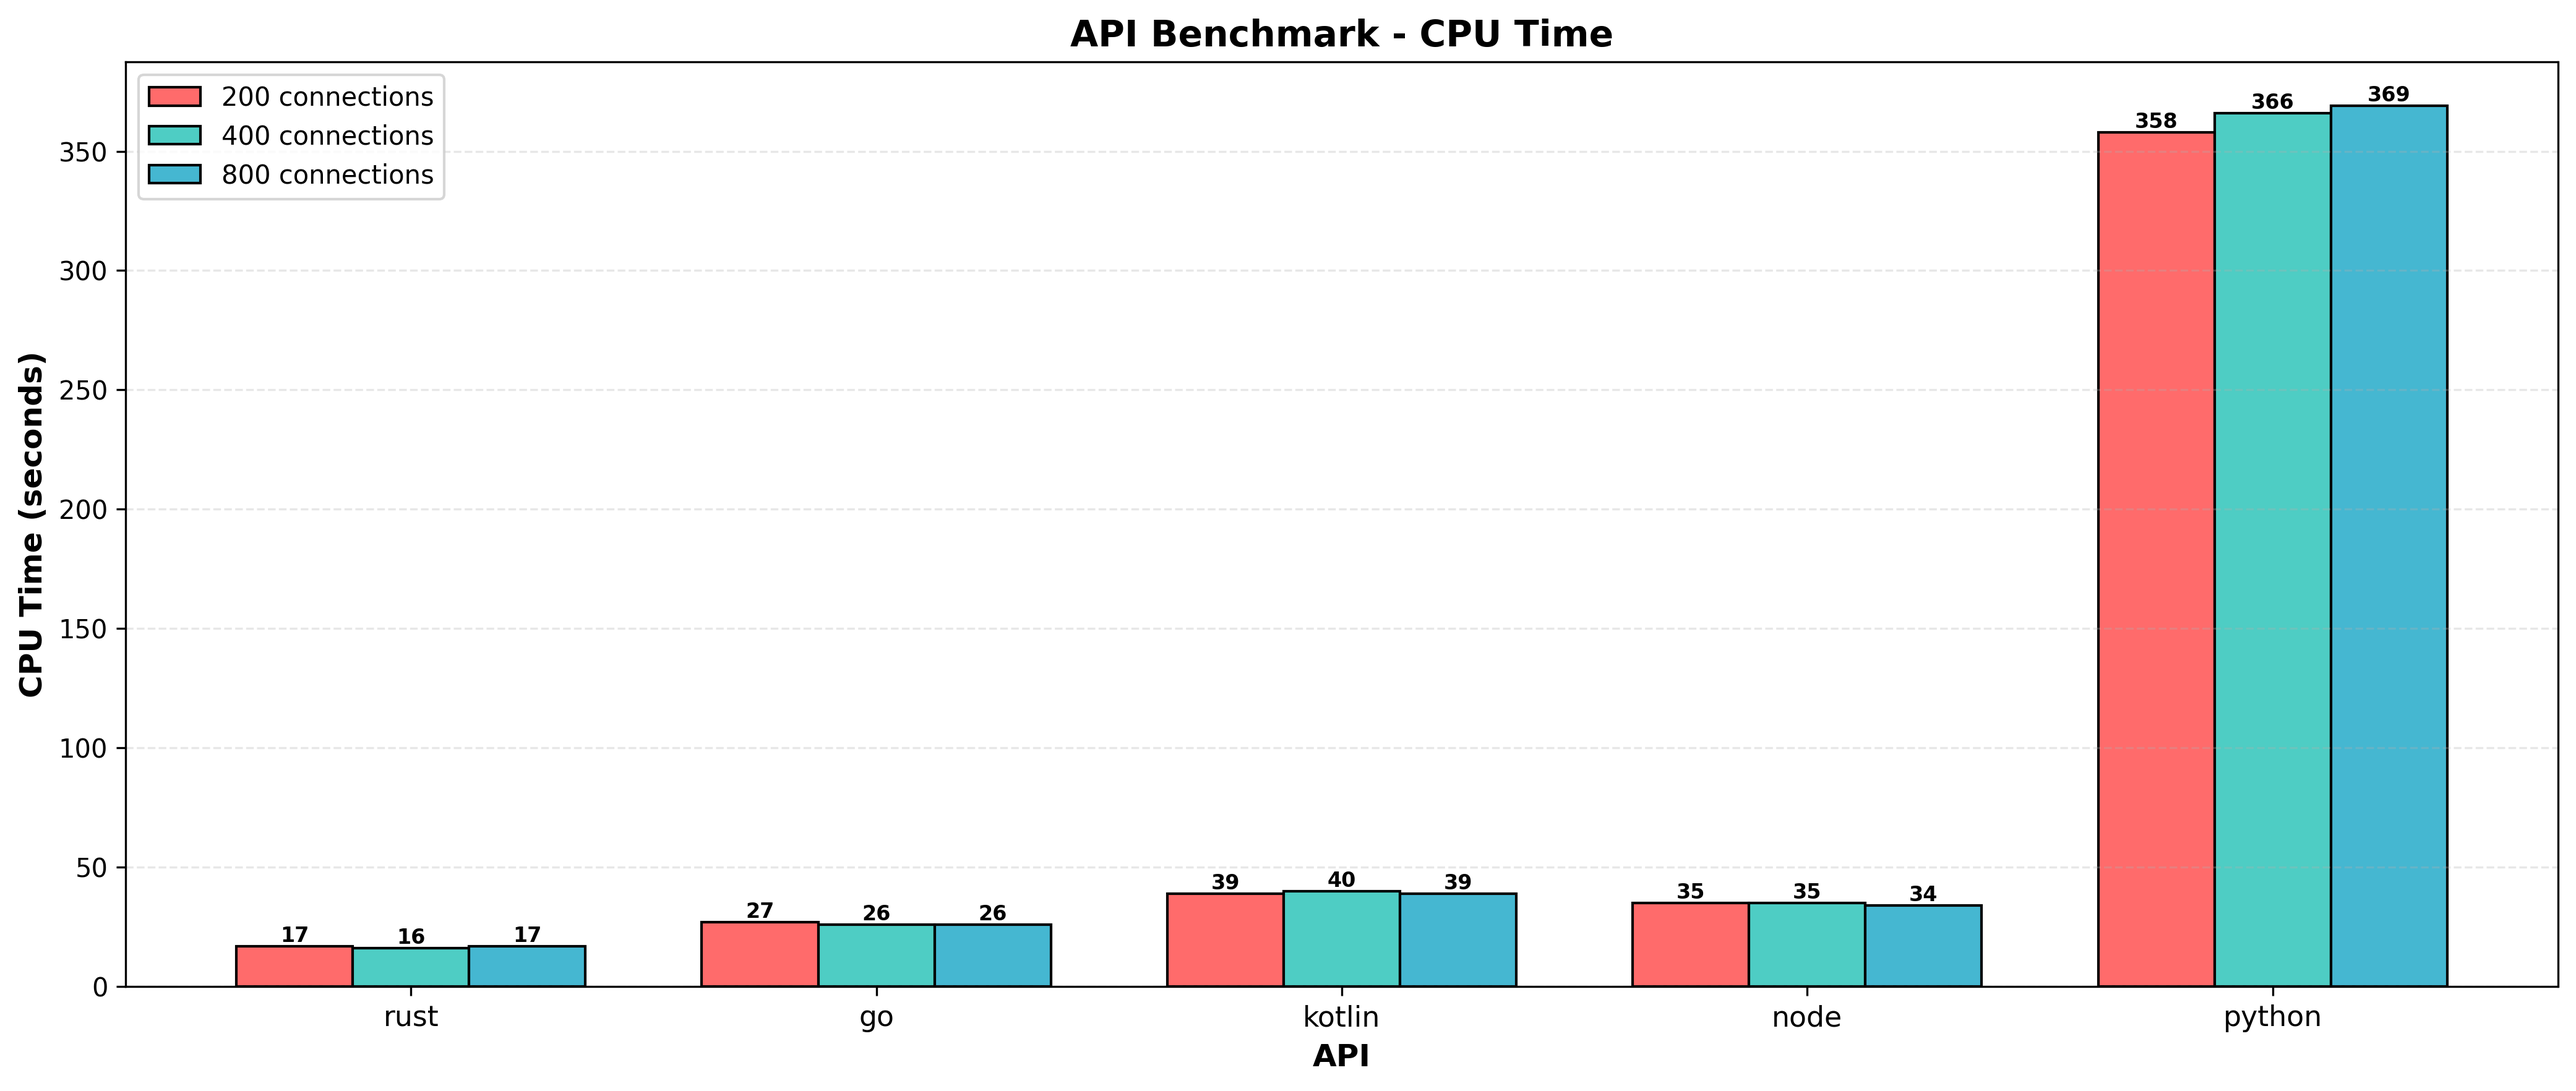
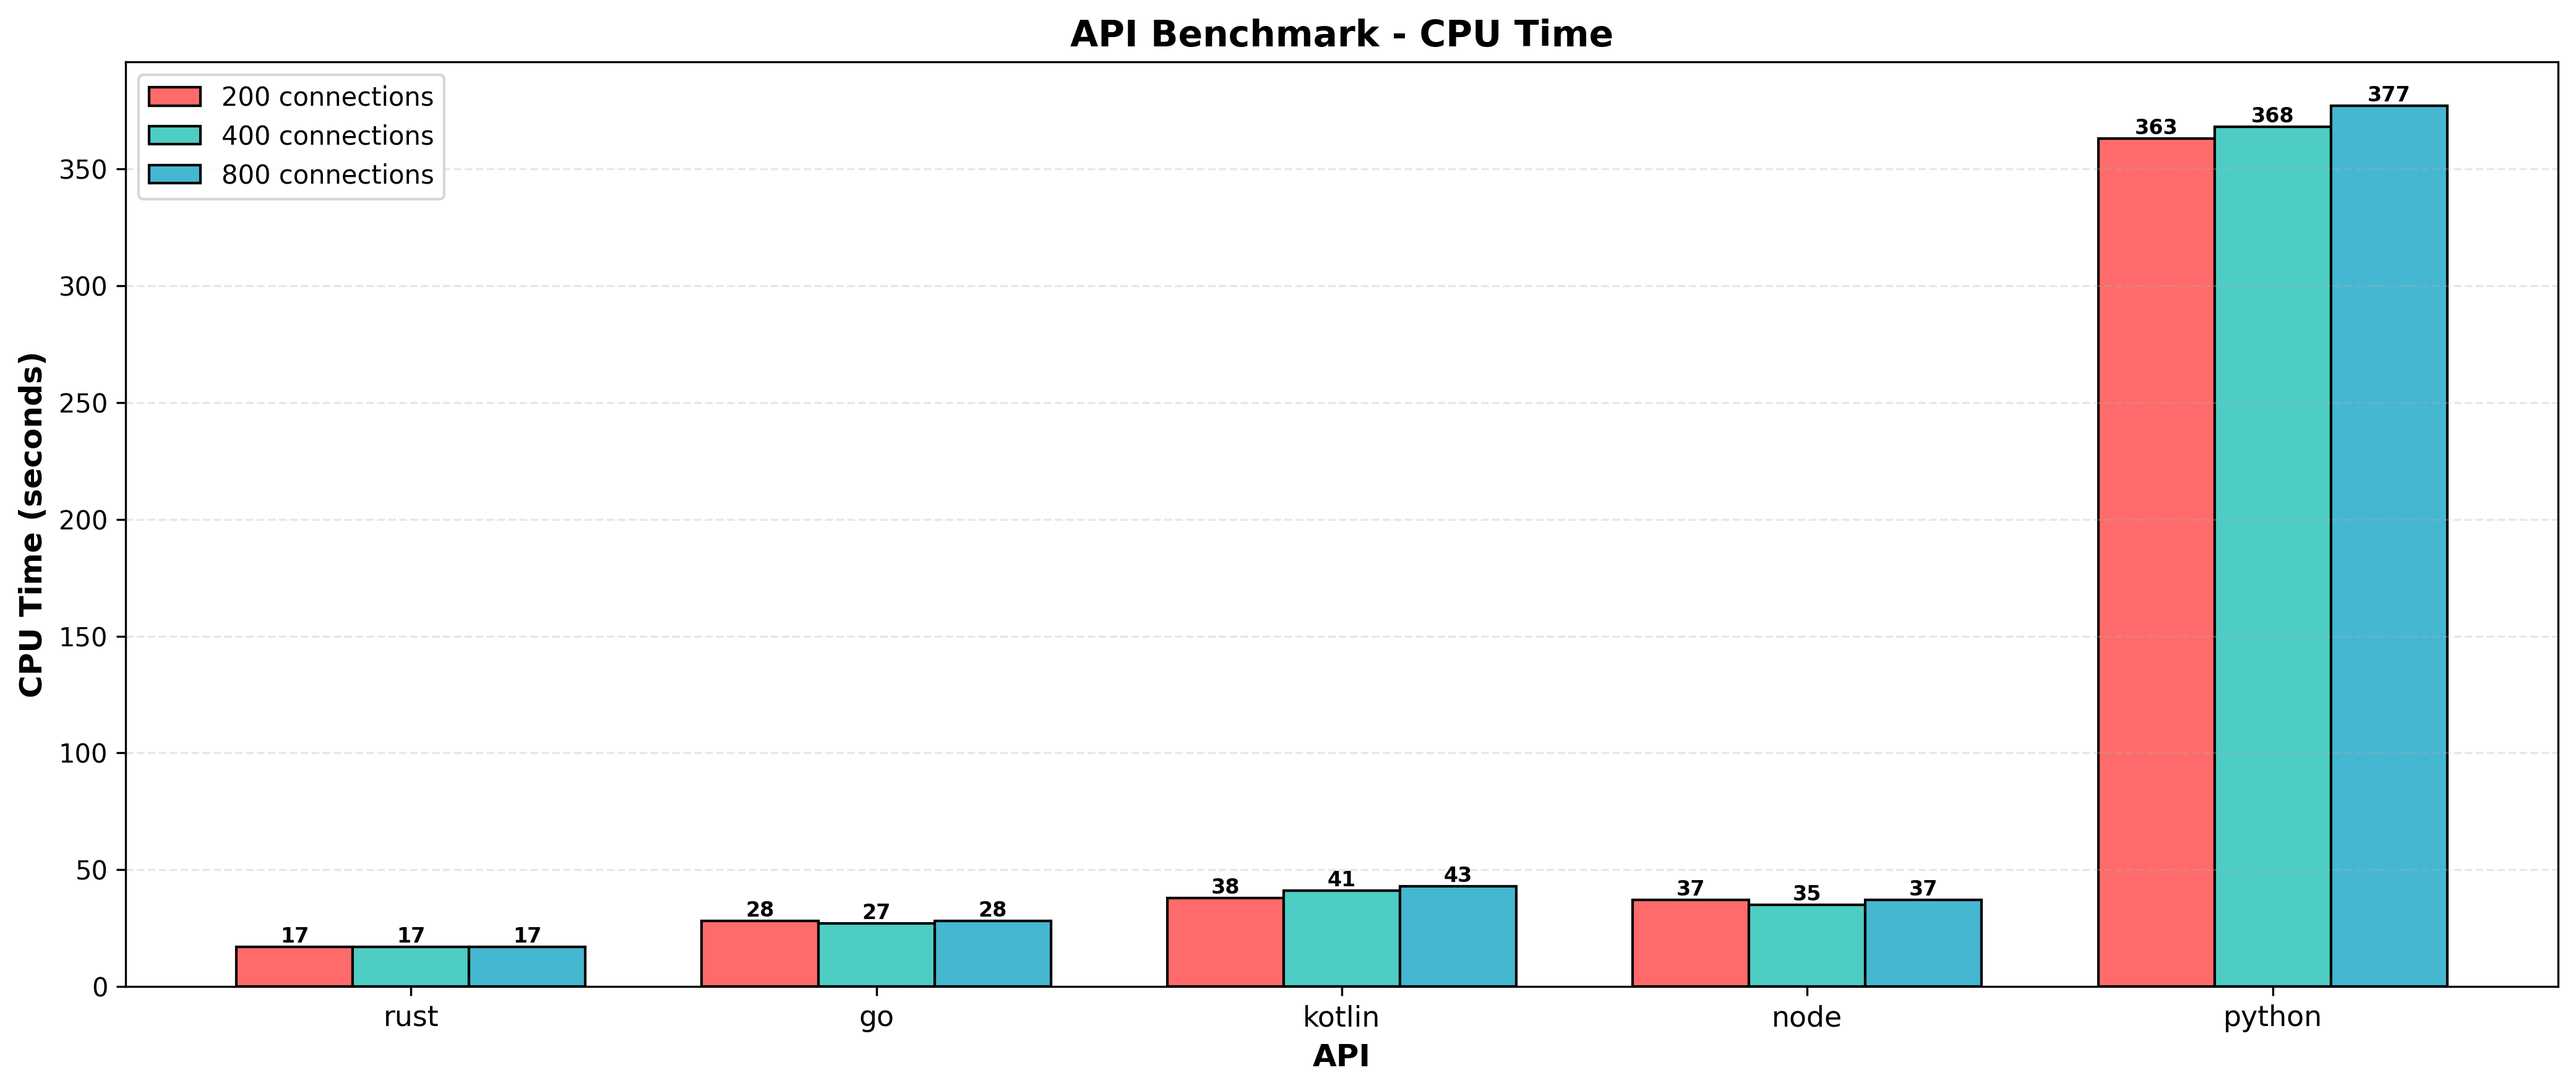
results from github actions autocommit

diff --git a/results/raw.md b/results/raw.md
@@ -1,6 +1,6 @@
 # Results
 ## Timestamp
-Fri Jan 30 11:17:29 UTC 2026
+Sat Jan 31 10:44:03 UTC 2026
 ## Hardware Info
 | CPU Model | Num CPUs | Memory |
 | --------- | -------- | ------ |
@@ -9,18 +9,18 @@ Fri Jan 30 11:17:29 UTC 2026
 ## Benchmarks of 1 Million Requests
 | Test Name | HTTP Conns | Success Rate | Test Seconds | Requests per Second | P50 Millis | P99 Millis | P99.9 Millis | API Memory MB | API CPU Time | API Threads | API Processes |
 | --------- | ---------- | ------------ | ------------ | ------------------- | ---------- | ---------- | ------------ | ------------- | ------------ | ----------- | ------------- |
-| rust | 200 | 100.0% | 8.7 | 113838.8 | 1.6248 | 4.4941 | 6.0493 | 8.4 | 00:00:17 | 5 | 1 |
-| rust | 400 | 100.0% | 8.4 | 118296.4 | 3.2072 | 7.0297 | 9.7125 | 13.0 | 00:00:16 | 5 | 1 |
-| rust | 800 | 100.0% | 8.6 | 115649.8 | 6.8276 | 10.6417 | 15.5076 | 22.0 | 00:00:17 | 5 | 1 |
-| go | 200 | 100.0% | 11.7 | 85307.8 | 1.8498 | 7.2712 | 10.1073 | 18.0 | 00:00:27 | 13 | 1 |
-| go | 400 | 100.0% | 11.2 | 88763.3 | 3.8170 | 13.2175 | 18.9566 | 24.9 | 00:00:26 | 11 | 1 |
-| go | 800 | 100.0% | 11.2 | 88950.9 | 8.1004 | 23.4476 | 35.3453 | 37.4 | 00:00:26 | 10 | 1 |
-| kotlin | 200 | 100.0% | 14.5 | 69088.5 | 1.9863 | 11.9851 | 32.6723 | 439.6 | 00:00:39 | 30 | 1 |
-| kotlin | 400 | 100.0% | 14.5 | 69037.9 | 4.8526 | 21.9037 | 58.5978 | 525.0 | 00:00:40 | 30 | 1 |
-| kotlin | 800 | 100.0% | 14.4 | 69495.0 | 9.3771 | 41.9663 | 98.6355 | 614.2 | 00:00:39 | 30 | 1 |
-| node | 200 | 100.0% | 35.1 | 28431.0 | 5.9205 | 9.4989 | 10.7911 | 104.0 | 00:00:35 | 7 | 1 |
-| node | 400 | 100.0% | 35.1 | 28479.7 | 11.7859 | 19.1889 | 26.2170 | 143.9 | 00:00:35 | 7 | 1 |
-| node | 800 | 100.0% | 34.1 | 29319.5 | 23.2072 | 38.5252 | 45.2260 | 148.4 | 00:00:34 | 7 | 1 |
-| python | 200 | 100.0% | 99.5 | 10062.8 | 16.1829 | 35.8597 | 41.9441 | 135.0 | 00:05:58 | 5 | 5 |
-| python | 400 | 100.0% | 100.9 | 9929.2 | 41.1931 | 72.6346 | 77.4761 | 135.3 | 00:06:06 | 5 | 5 |
-| python | 800 | 100.0% | 101.6 | 9767.8 | 85.1542 | 113.1222 | 131.2749 | 142.2 | 00:06:09 | 5 | 5 |
+| rust | 200 | 100.0% | 8.7 | 113965.2 | 1.6241 | 4.4650 | 5.8239 | 8.3 | 00:00:17 | 5 | 1 |
+| rust | 400 | 100.0% | 8.6 | 115373.8 | 3.2838 | 7.4231 | 10.1960 | 12.8 | 00:00:17 | 5 | 1 |
+| rust | 800 | 100.0% | 8.9 | 112145.0 | 6.9691 | 11.8030 | 17.7018 | 22.2 | 00:00:17 | 5 | 1 |
+| go | 200 | 100.0% | 11.9 | 83759.8 | 1.8716 | 7.4481 | 10.2675 | 18.5 | 00:00:28 | 12 | 1 |
+| go | 400 | 100.0% | 11.5 | 86501.7 | 3.9015 | 14.0932 | 20.3156 | 24.7 | 00:00:27 | 12 | 1 |
+| go | 800 | 100.0% | 11.9 | 84116.9 | 8.5121 | 26.6273 | 39.2458 | 37.5 | 00:00:28 | 13 | 1 |
+| kotlin | 200 | 100.0% | 14.2 | 70332.9 | 1.9692 | 11.8287 | 32.6223 | 504.8 | 00:00:38 | 30 | 1 |
+| kotlin | 400 | 100.0% | 14.8 | 67244.2 | 4.7961 | 23.6556 | 47.0493 | 522.5 | 00:00:41 | 30 | 1 |
+| kotlin | 800 | 100.0% | 15.5 | 64298.6 | 10.1639 | 43.3145 | 108.1463 | 621.6 | 00:00:43 | 31 | 1 |
+| node | 200 | 100.0% | 36.6 | 27290.5 | 6.2222 | 9.8442 | 11.9520 | 106.4 | 00:00:37 | 7 | 1 |
+| node | 400 | 100.0% | 35.4 | 28243.8 | 12.3030 | 19.8020 | 26.6636 | 139.1 | 00:00:35 | 7 | 1 |
+| node | 800 | 100.0% | 37.4 | 26682.3 | 25.6290 | 41.7713 | 50.9675 | 149.1 | 00:00:37 | 7 | 1 |
+| python | 200 | 100.0% | 101.2 | 9945.9 | 22.0285 | 34.0600 | 38.6365 | 134.4 | 00:06:03 | 5 | 5 |
+| python | 400 | 100.0% | 101.5 | 9845.0 | 36.6064 | 73.8920 | 79.3864 | 135.6 | 00:06:08 | 5 | 5 |
+| python | 800 | 100.0% | 104.4 | 9523.2 | 79.3476 | 121.5426 | 128.1230 | 142.4 | 00:06:17 | 5 | 5 |

diff --git a/results/latest.md b/results/latest.md
@@ -1,6 +1,6 @@
 # Latest Results
 
-Timestamp: `Fri Jan 30 11:17:29 UTC 2026`
+Timestamp: `Sat Jan 31 10:44:03 UTC 2026`
 
 ## Requests Per Second
 ![Requests Per Second](rps.png)
